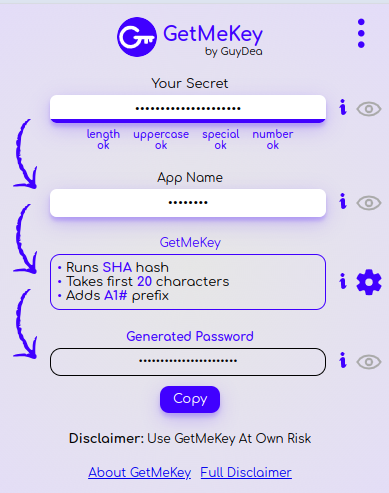
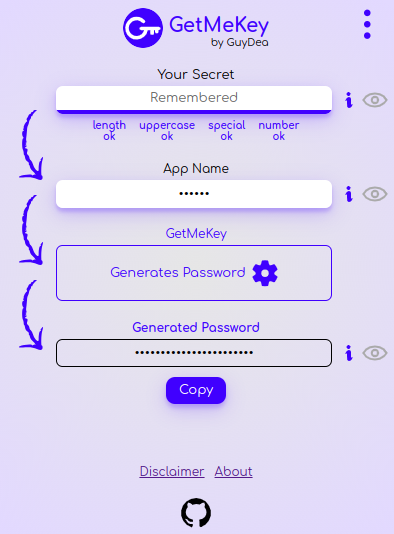
smaller fixes, texts

diff --git a/src/services/infos.ts b/src/services/infos.ts
@@ -41,9 +41,9 @@ export const infoValues: Map<string, InfoData> = new Map([
     <h2>How GetMeKey Works</h2>
     <p>GetMeKey is tool, that allows you to have safe and unique passwords for all your applications, only by provideing it with your
     secret text and name of the desired application. This is achieved by putting these two pieces of information togather and running it through
-    cryptographic <a href="/what-is-hash">hash function</a>. </p>   
+    cryptographic <a href="/what-is-hash">hash function</a>. All steps are described in-depth <a href="/generation-steps">here</a>.</p>   
     <p>Using this approach you can quickly generate unique passwords on demand, on any device, even when offline. And if some compromised app leaks
-    your password, it doesn't impact any other account that you have.</p>
+    your password, it doesn't impact any other account that you have.</p>    
     <h2>Story Of GetMeKey</h2>
     <p><i>GetMeKey</i> is successor of a personal tool, that I created for my own needs.</p>
     <p>After years of trying to find the best way how to manage hundrets of passwords and testing dozens of solutions along the way, 
@@ -106,8 +106,9 @@ export const infoValues: Map<string, InfoData> = new Map([
     If there is match of hashes, GetMeKey knows it has been marked as <strong>Recalled</strong> before.</p>
     <p>Then it can decrypt <a href="/hash-settings">Hash Settings</a>, that were stored together with hashed secret, in encrypted form, using the secret as a key.</p>
     <h2>Remember Recalled Secret</h2>
-    <p>If you leave GetMeKey, while recalled secret is active, this secret will be remembered and prefilled next time you open GetMeKey</p>
-    <p><strong style="color: var(--color-danger)">Caution: </strong>During this period, secret itself is stored in encrypted format on the device. 
+    <p>If you leave GetMeKey, while recalled secret is active, this secret will be remembered and prefilled next time you open GetMeKey.</p>
+    <p>As security measure, an attempt to reveal the secret after the reload, will cause secret to be discarded.</p>    
+    <p><strong style="color: var(--color-danger)">Caution: </strong>During remembering period, secret itself is stored in encrypted format on the device. 
     Someone with full access to your device and knowledge of GetMeKey could decrypt and reveal it!</p>    
     `}],
     ['info-app-name', {header: 'App Name', content: `
@@ -136,7 +137,48 @@ export const infoValues: Map<string, InfoData> = new Map([
     ['info-password', {header: 'Generated Password', content: `
     <p>Result of putting your secret together with app name and running it through <a href="/what-is-hash">hash function.</a></p> 
     <p>To be usable as a password, result is shortened and prefixed with <strong>Security Prefix</strong> as defined in <a href="/hash-settings">Hash Settings</a>.</p>
+    `}],
+    ['info-hash-selection', {header: 'Hash Algorithm', content: `
+        <p>You can select, which hash function to use for password generation. Each function has respective properties,
+        that can configure it further.</p>
+        <h2><a href="https://wikipedia.org/wiki/PBKDF2" target="_blank">PBKDF2</a></h2>
+        <p>PBKDF2 (Password-Based Key Derivation Function 2) enhances security by using a salt to prevent rainbow table 
+        attacks and applying a pseudorandom function like HMAC (using SHA in the process) multiple times to the password and salt to increase 
+        computational effort, thwarting brute-force attacks.</p>
+        <p>This algorithm is selected as default for GetMeKey, due to its iterative properties and being implemented directly in the browser.</p>
+        <p>Number of iterations is adjustable and defaults to 1 000 000 - offering the best ratio of security and speed.</p>        
+        <h2><a href="https://wikipedia.org/wiki/Secure_Hash_Algorithms" target="_blank">SHA</a></h2>
+        <p>SHA (Secure Hash Algorithm) is a family of cryptographic hash functions designed to provide a fixed-size 
+        hash value from variable-length input data, ensuring data integrity. SHA is fast and efficient, which also 
+        makes it more prone to be cracked with brute-force attack.</p>
+        <p>SHA doesn't provide in-built salting mechanism. GetMeKey can achieve this effect, by (pre/su)fixing the secret
+        with <string>App Name</string> value.</p>
+        <h2><a href="https://wikipedia.org/wiki/Scrypt" target="_blank">Scrypt</a></h2>
+        <p>Scrypt is a password-based key derivation function designed to make it costly both in terms of time and 
+        memory to perform large-scale custom hardware attacks. It achieves this by using a large amount of memory 
+        compared to other key derivation functions like PBKDF2. It allows for the tuning of memory usage, 
+        processing time, and parallelism to adapt to different security requirements.</p>        
+    `}],
+    ['info-password-format', {header: 'Password Format', content: `
+    <h2>Password Text Encoding</h2>
+    <p>Used hash functions are binary based, which means that the hashing is done by first transforming the text to its binary form and
+    then applying binary transformations.</p>
+    <p>The result is also binary - just long list of pseudo-randomly ordered 1s and 0s.</p>
+    <p>To transform this into the text password, we can use <a href="https://wikipedia.org/wiki/Base62" target="_blank">Base62</a> encoding algorithm.
+    Base 62 generates text using only letters and numbers and no special characters.</p>
+    <h2>Take First Characters</h2>
+    <p>Resulting text can be very long - not really suitable for password yet. So GetMeKey takes only first X characters.
+    20 by default, but can be adjusted.</p>
+    <h2>Security Prefix</h2>
+    <p>Lastly, this password doesn't contain any special character and could be generated, by chance, without any uppercase, lowercase or number characters.</p>
+    <p>It's common password requirement to have these conditions met. Therefore, GetMeKey prefixes the password with constant text - " <i>Ab1#</i> " by default.</p>
+    `}],
+    ['generation-steps', {header: 'Password Generation Step-By-Step', content: `
+    
     `}]
+
+
+
 
 
 ]);

diff --git a/src/services/recall-service.ts b/src/services/recall-service.ts
@@ -22,11 +22,11 @@ export class RecallService {
             settings: s.userPreferences
         });
         state.subscribe(async s => {
-            if(!s.userPreferences.recall.remember){
+            if(!s.userPreferences.recall.allowRecall || !s.userPreferences.recall.remember){
                 this.purgeRemembered();
             }
-            if(!s.userPreferences.recall.allowRecall){
-               this.removeRecalledSecret(s.secretRemembered);
+            if(!s.userPreferences.recall.allowRecall) {
+                this.unmarkSecretAsRecalled(s.secretRemembered);
                 return;
             }
             const oldData = diffMatcher(s);
@@ -88,13 +88,13 @@ export class RecallService {
             if (diff > 0) {
                 return diff;
             } else {
-                this.removeRecalledSecret(true);
+                this.unmarkSecretAsRecalled(true);
             }
         }
         return null;
     }
 
-    public removeRecalledSecret(removeSecretItself: boolean) {
+    public unmarkSecretAsRecalled(removeSecretItself: boolean) {
         if(state.value.secretRecalled) {
             state.update(s => {
                 s.secretRemembered = false;
@@ -164,7 +164,7 @@ export class RecallService {
         Persistence.removeFromStorage("RECALLED_SECRET", hashedSecret);
         toastService.addToast('Recalled Secret Removed');
         if(state.value.secretValue === secret){
-            this.removeRecalledSecret(true);
+            this.unmarkSecretAsRecalled(true);
         }
     }
 }

diff --git a/src/services/router.ts b/src/services/router.ts
@@ -42,7 +42,7 @@ export class Router {
         },
         {
             path: `/(${['info-secret','why-strong-secret','disclaimer','about', 'info-user-interface', 'info-usability', 'info-recall', 'info-app-name',
-            'what-is-hash', 'info-password'].join('|')})`,
+            'what-is-hash', 'info-password', 'info-hash-selection', 'info-password-format', 'generation-steps'].join('|')})`,
             component: (path: string) => import('/src/components/gmk-info-page.js').then(m => new m.default(path.replace('/', '').split('?')[0])),
         },
     ]

diff --git a/src/components/password-options/gmk-algo-selection.ts b/src/components/password-options/gmk-algo-selection.ts
@@ -70,8 +70,8 @@ export class GmkAlgoSelection extends HTMLElement {
         return html`
             <style>${globalStyles}${this.styles}</style>
 
-            <gmk-title-panel>
-                <span slot="title">Algorithm Selection</span>
+            <gmk-title-panel infopage="info-hash-selection">
+                <span slot="title">Hash Function</span>
                 <div slot="content" class="mainContent">
                     <form id="algoSelectionPanel">
                         ${

diff --git a/src/components/password-options/gmk-algo-output-format.ts b/src/components/password-options/gmk-algo-output-format.ts
@@ -49,7 +49,7 @@ export class GmkAlgoOutputFormat extends HTMLElement {
     render() {
         return html`
             <style>${globalStyles}${this.styles}</style>
-            <gmk-title-panel>
+            <gmk-title-panel infopage="info-password-format">
                 <span slot="title">Password Format</span>
                 <div slot="content">
                     <form id="formatForm" class="line">

diff --git a/src/index-related/index-listeners.ts b/src/index-related/index-listeners.ts
@@ -7,7 +7,7 @@ export class IndexListeners {
     public static initialize(){
         IndexElements.secretInput().addEventListener('focus', () => state.update(() => {
                 if(state.value.secretRemembered){
-                    recallService.removeRecalledSecret(true);
+                    recallService.unmarkSecretAsRecalled(true);
                 }
             })
         );

diff --git a/src/state/initial-state.ts b/src/state/initial-state.ts
@@ -41,7 +41,7 @@ export const initState: GmkState = {
             takeFirst: 20,
             minTakeFirst: 10,
             maxTakeFirst: 200,
-            securityText: 'A1#',
+            securityText: 'Ab1#',
             securityTextPosition: 'prefix'
         },
         algoOptions: {
